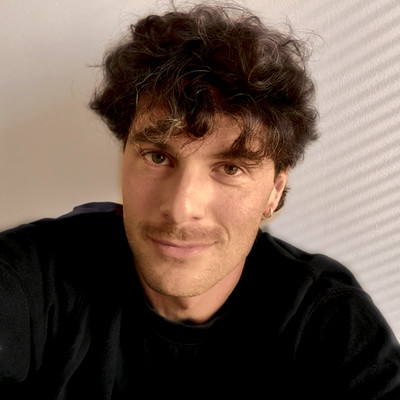
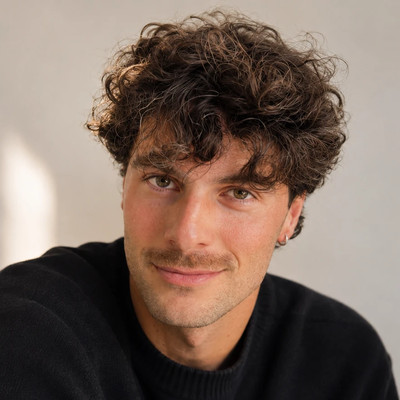
The studio portrait
The studio portrait becomes the site photo, as it is: the same square crop
(all the hair, a bit of shoulder), 400px round and 800px for link previews,
no metadata.

diff --git a/index.html b/index.html
@@ -44,7 +44,7 @@
       "jobTitle": "Postdoctoral Research Fellow",
       "description": "Investigates the hidden costs of AI: the electricity, carbon and water of U.S. data centers, the air pollution and health effects of the power plants that run them, and who pays.",
       "url": "https://gianguidi.github.io/",
-      "image": "https://gianguidi.github.io/assets/img/gianluca.jpg?v=b5de5bc",
+      "image": "https://gianguidi.github.io/assets/img/gianluca.jpg?v=4e399f1",
       "email": "mailto:ggianluca@hsph.harvard.edu",
       "affiliation": [{"@type": "Organization", "name": "Harvard T.H. Chan School of Public Health"}],
       "colleague": [{"@type": "Person", "name": "Francesca Dominici", "url": "https://scholar.google.com/citations?hl=en&user=RSwElNMAAAAJ"}],
@@ -80,7 +80,7 @@
   <meta name="description" content="Gianluca Guidi, a postdoc at Harvard, investigates the hidden costs of AI: the energy, carbon and water of data centers, their toll on health, and who pays." />
   <meta property="og:title" content="Gianluca Guidi" />
   <meta property="og:description" content="I investigate the hidden costs of AI: the energy, carbon and water of data centers, their toll on health, and who pays." />
-  <meta property="og:image" content="https://gianguidi.github.io/assets/img/gianluca.jpg?v=b5de5bc" />
+  <meta property="og:image" content="https://gianguidi.github.io/assets/img/gianluca.jpg?v=4e399f1" />
   <meta property="og:url" content="https://gianguidi.github.io/" />
   <meta name="twitter:card" content="summary" />
   <meta name="color-scheme" content="light" />
@@ -110,7 +110,7 @@
   <main class="page" id="top">
     <header class="intro">
       <button class="avatar" type="button" aria-label="Photo of Gianluca Guidi. Click to say hi">
-        <img src="assets/img/avatar.jpg?v=b5de5bc" alt="Gianluca Guidi" width="400" height="400" />
+        <img src="assets/img/avatar.jpg?v=4e399f1" alt="Gianluca Guidi" width="400" height="400" />
       </button>
       <!-- click the photo and it says hi: in your language first, then around the world -->
       <span class="hi" aria-live="polite"></span>
